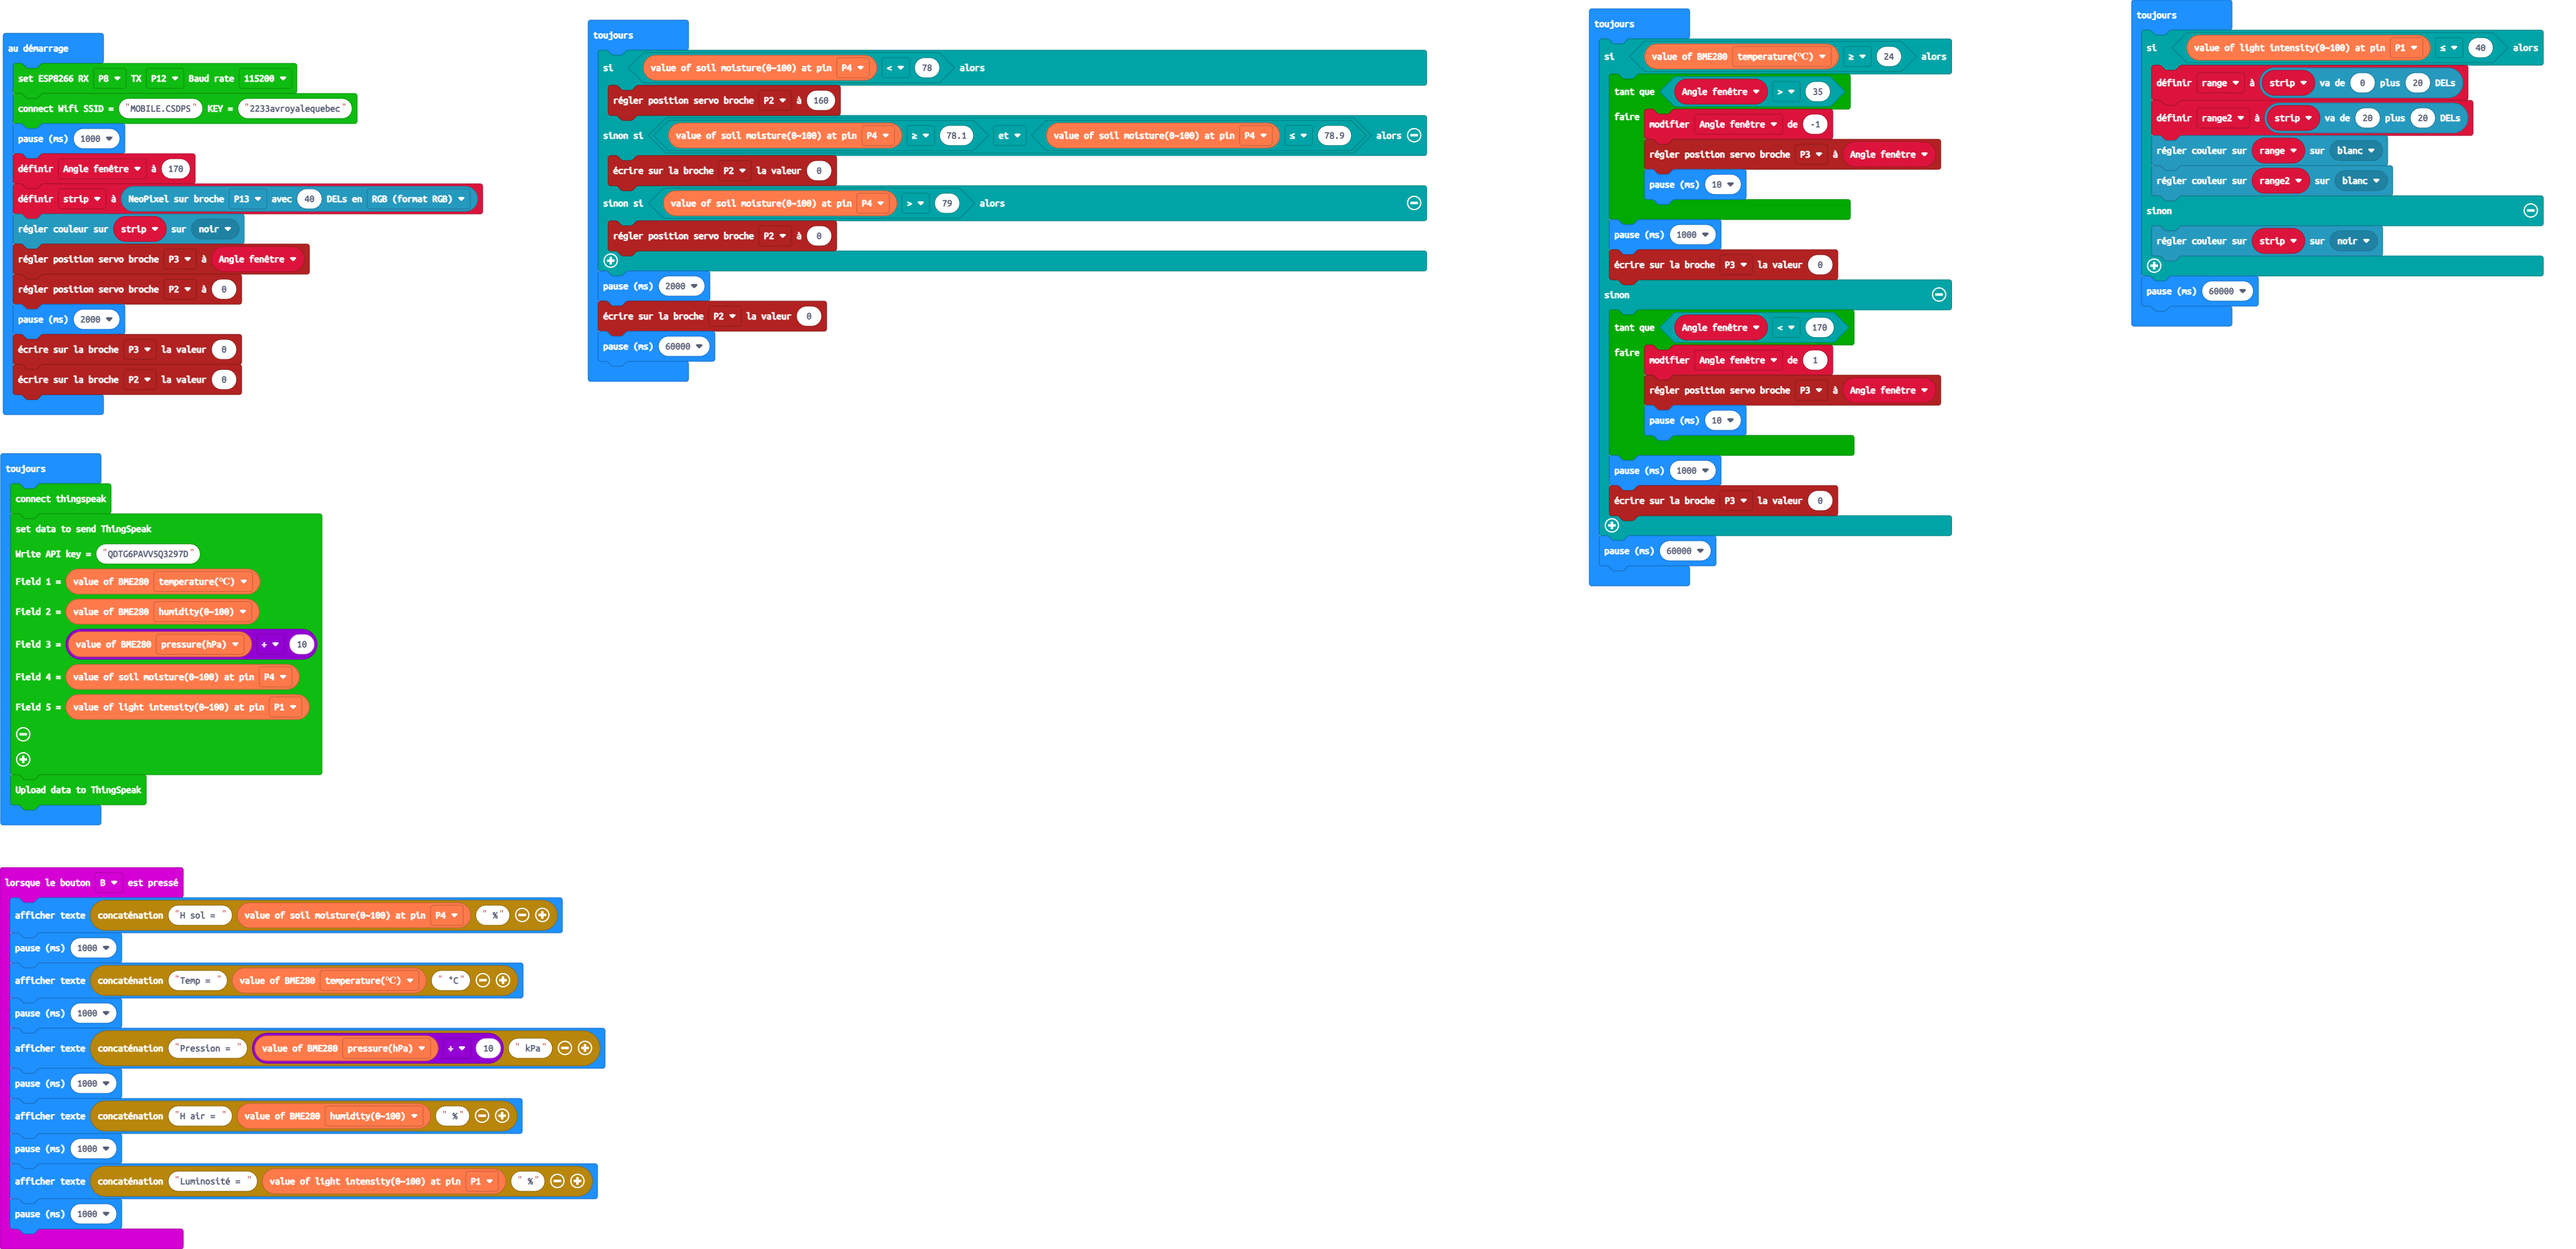
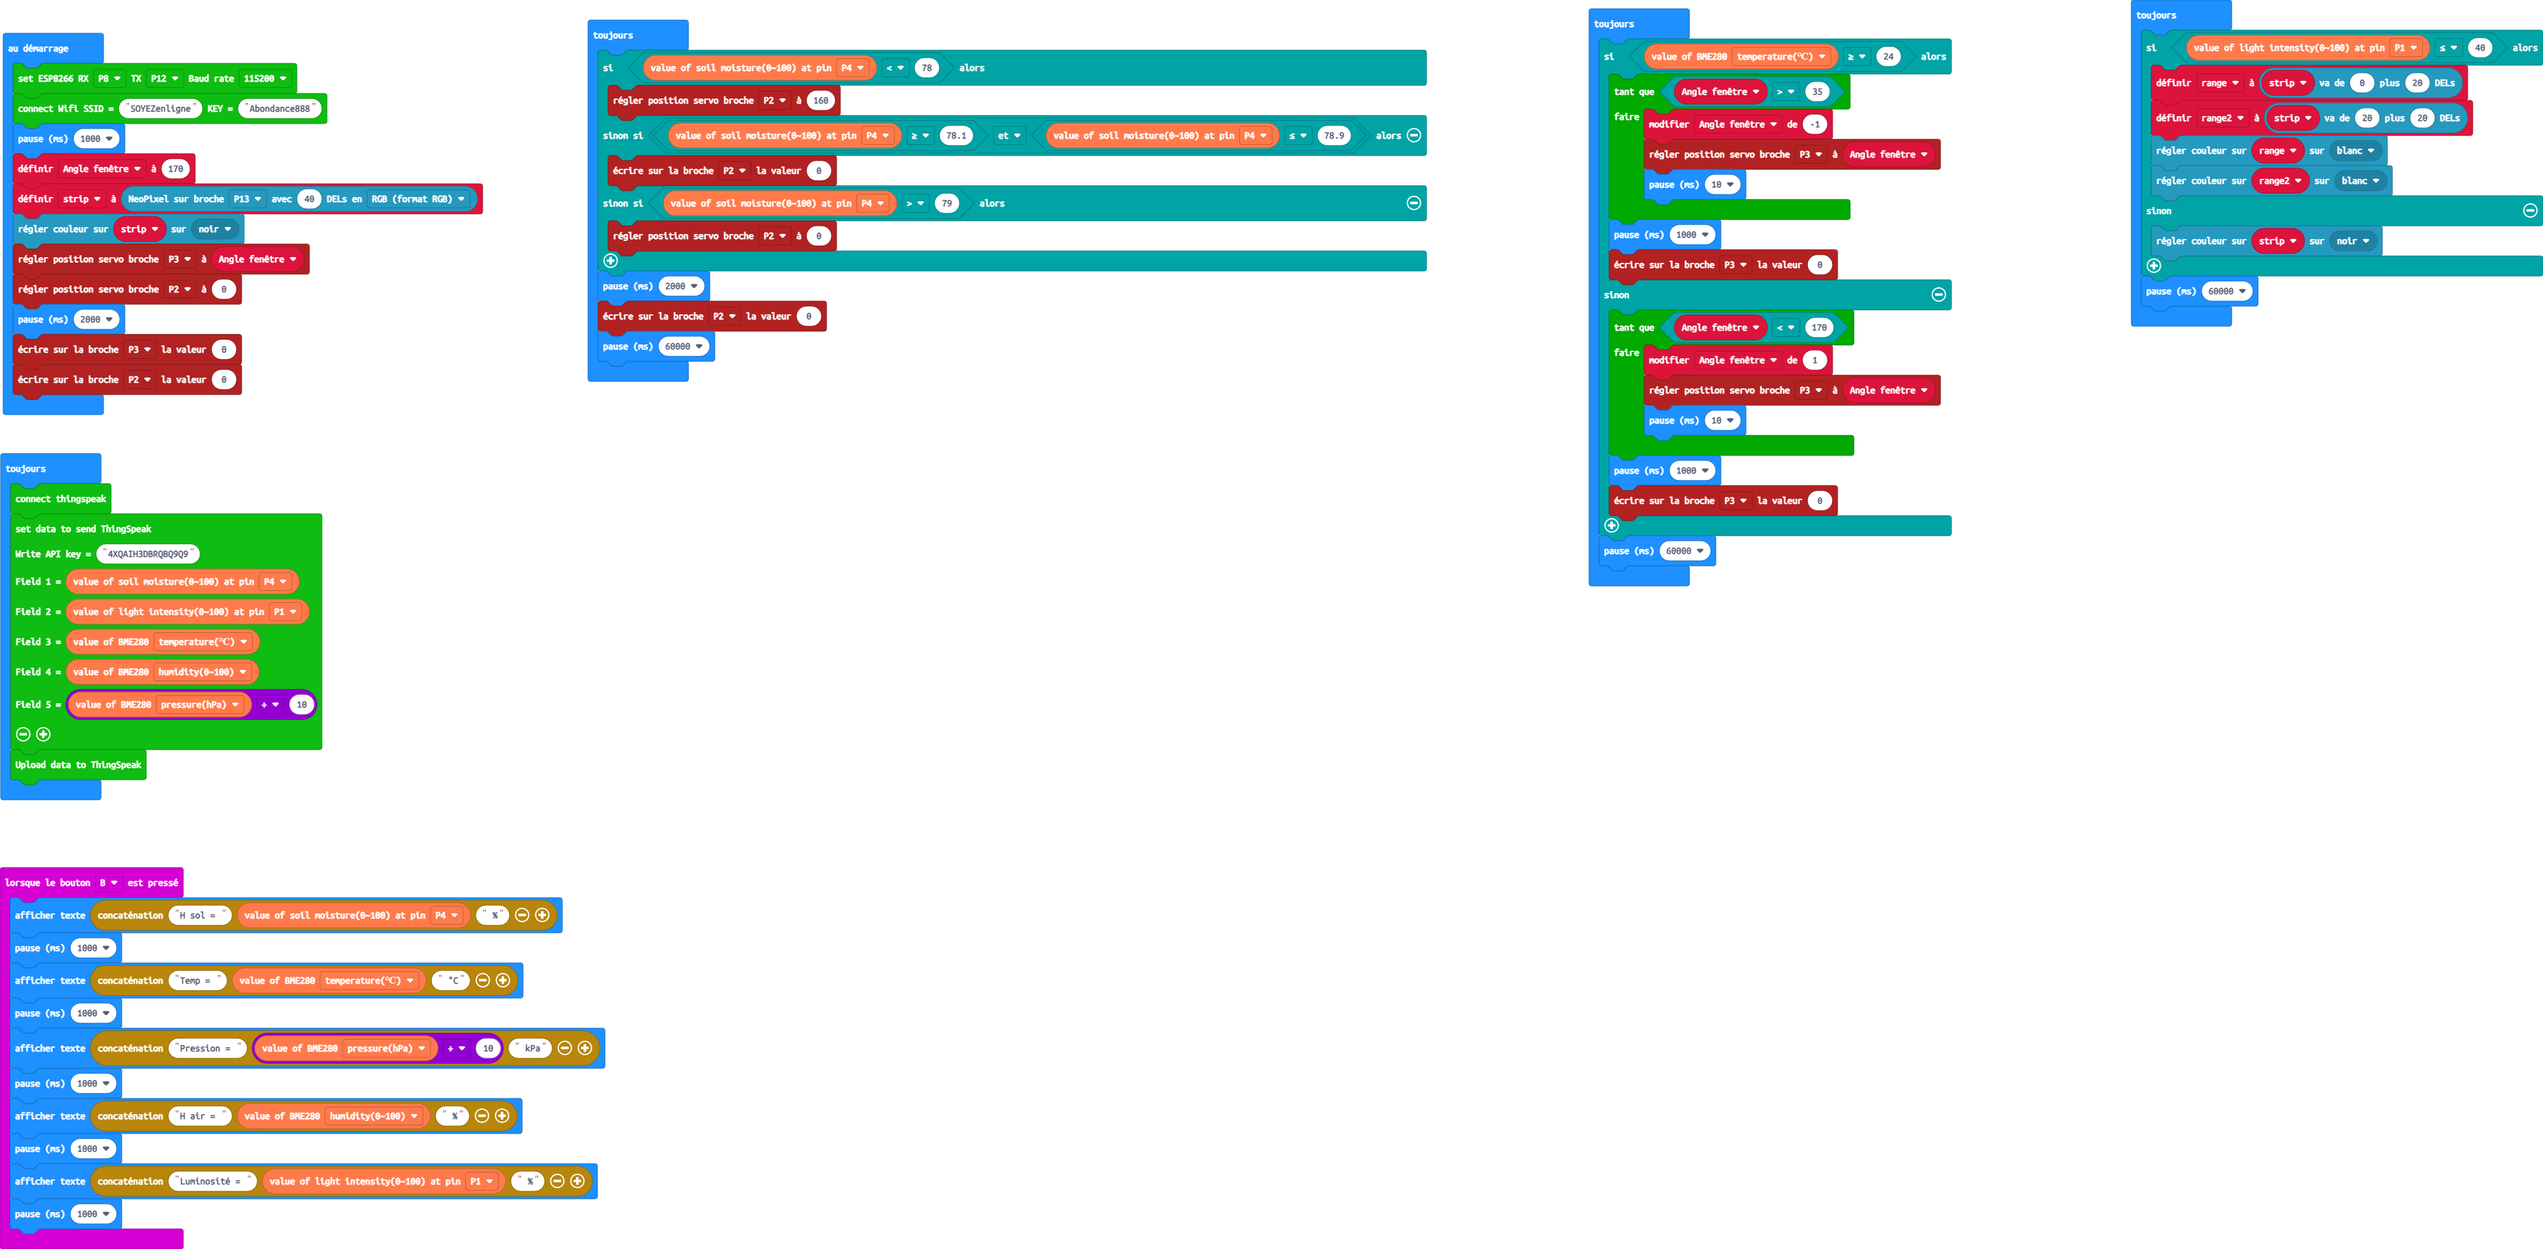
Mise à jour pxt.json, main.blocks, main.ts

diff --git a/main.ts b/main.ts
@@ -13,7 +13,7 @@ input.onButtonPressed(Button.B, function () {
 let range2: neopixel.Strip = null
 let range: neopixel.Strip = null
 ESP8266_IoT.initWIFI(SerialPin.P8, SerialPin.P12, BaudRate.BaudRate115200)
-ESP8266_IoT.connectWifi("MOBILE.CSDPS", "2233avroyalequebec")
+ESP8266_IoT.connectWifi("SOYEZenligne", "Abondance888")
 basic.pause(1000)
 let Angle_fenêtre = 170
 let strip = neopixel.create(DigitalPin.P13, 40, NeoPixelMode.RGB)
@@ -69,12 +69,12 @@ basic.forever(function () {
 basic.forever(function () {
     ESP8266_IoT.connectThingSpeak()
     ESP8266_IoT.setData(
-    "QDTG6PAVV5Q3297D",
+    "4XQAIH3DBRQBQ9Q9",
+    Environment.ReadSoilHumidity(AnalogPin.P4),
+    Environment.ReadLightIntensity(AnalogPin.P1),
     Environment.octopus_BME280(Environment.BME280_state.BME280_temperature_C),
     Environment.octopus_BME280(Environment.BME280_state.BME280_humidity),
-    Environment.octopus_BME280(Environment.BME280_state.BME280_pressure) / 10,
-    Environment.ReadSoilHumidity(AnalogPin.P4),
-    Environment.ReadLightIntensity(AnalogPin.P1)
+    Environment.octopus_BME280(Environment.BME280_state.BME280_pressure) / 10
     )
     ESP8266_IoT.uploadData()
 })
